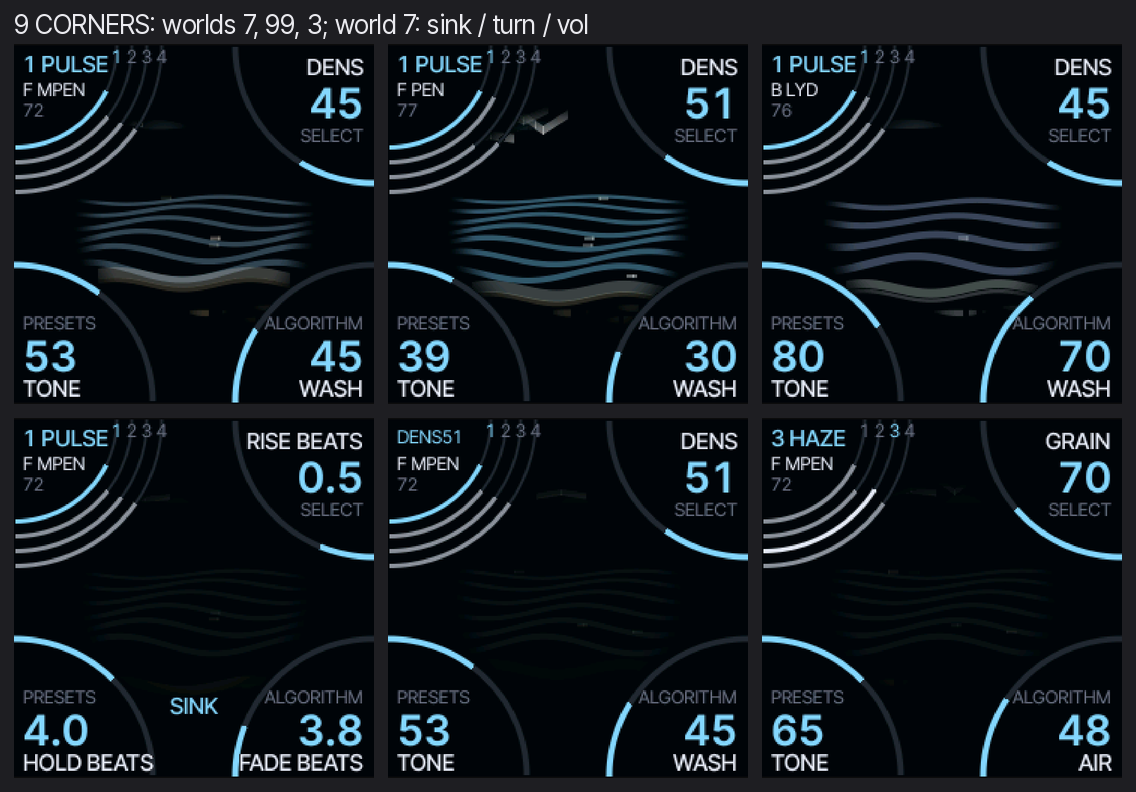
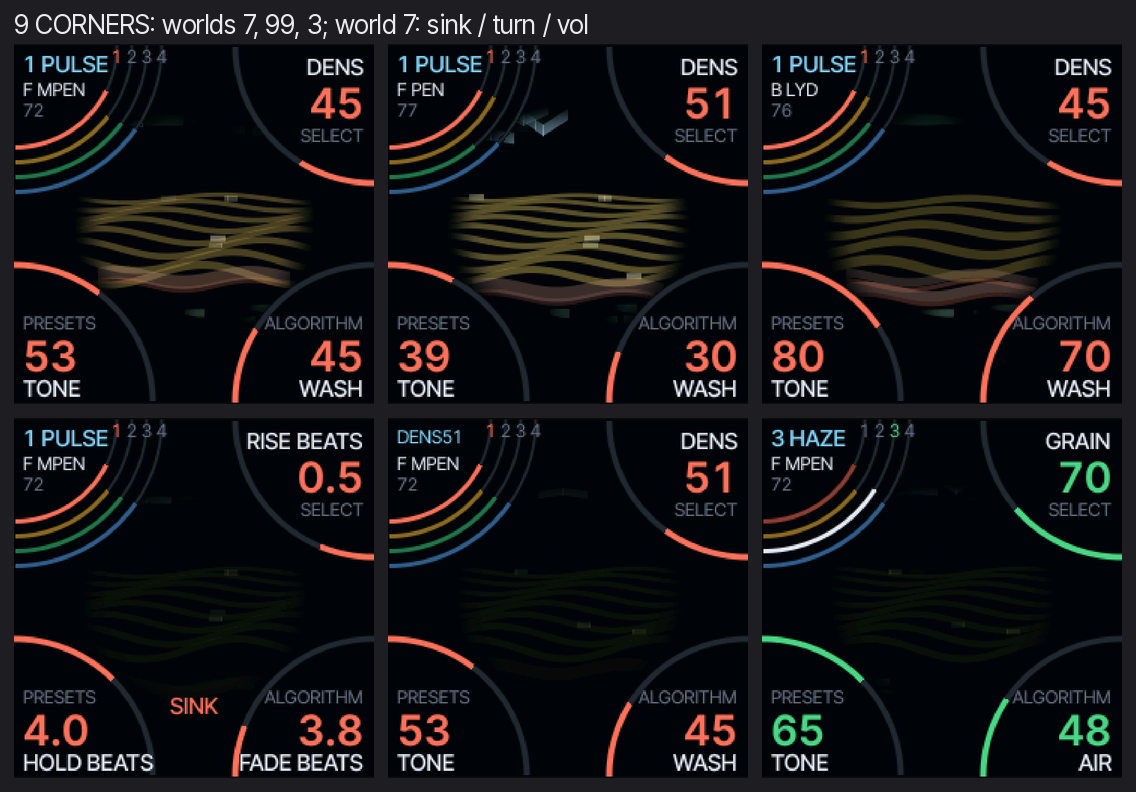
MAKU screen: the sea wears the track colours (pulse coral, floor amber, haze green, voice blue; the corners' arcs and fan too); each macro changes its thing more plainly (wash 1..4 + reach, 2..10 swell lines, bigger sway, longer streaks and trails, wider bird swing); turning a macro lights that part
Claude-Session: https://claude.ai/code/session_01NfBpQWavdnvyYAcF8PW4Gi

diff --git a/firmware/src/ui_maku_scene.c b/firmware/src/ui_maku_scene.c
@@ -10,7 +10,10 @@
  * glows, SWELL heaves, WOBBLE curls, CASCADE sends a flock, SCRAMBLE gusts), DRIFT sends a cloud. No scenery and no window
  * edge: only the things, painted with alpha against what is already there (the canvas is read back), fading out towards the
  * rim (SC_R). Each part's TONE is the clarity of its edges (low: wide and faint, high: thin and bright); the breath's zone dims
- * it towards night and lets the tide rise and fall (the swell higher, the shore moving). Drawn on the whole screen in two bands, state stepped once a frame. */
+ * it towards night and lets the tide rise and fall (the swell higher, the shore moving). Drawn on the whole screen in two bands, state stepped once a frame.
+ * COLOUR: every thing wears its part's track colour (mk_col: PULSE coral, FLOOR amber, HAZE green, VOICE blue), the same as the
+ * volume bar, the number and the macro's value of that track, so a thing and its track are one colour; the season only tints it
+ * (12 %), the minor adds dusk. TOUCH: turning a macro of the focused part lights that part's things for a moment (tch). */
 
 #define SC_X0 36
 #define SC_X1 204
@@ -20,14 +23,8 @@ static int32_t sc_ylo, sc_yhi;              /* the rows of the band being drawn 
 static int32_t sc_gain = 256;               /* 256 = whole; SINK fades everything towards the page */
 static float sc_soft;                       /* 0 crisp .. 1 soft: a part's TONE is the clarity of its edges (soft: wide and faint) */
 
-/* the sea's inks on the dark page, by season (deep: the lines of swell, light: foam and birds, sand: the shore) */
-typedef struct { uint16_t deep, light, sand; } scp_t;
-static const scp_t SCP[4] = {
-    {RGB(96, 164, 200), RGB(226, 240, 248), RGB(226, 204, 170)},
-    {RGB(70, 150, 214), RGB(236, 248, 252), RGB(238, 214, 160)},
-    {RGB(118, 150, 170), RGB(250, 232, 200), RGB(214, 184, 140)},
-    {RGB(130, 156, 200), RGB(244, 248, 255), RGB(226, 228, 236)},
-};
+/* the season's tint on the track colours (spring, summer, autumn, winter) and the neutral light of the events (a cloud) */
+static const uint16_t SC_TINT[4] = {RGB(150, 232, 190), RGB(120, 214, 255), RGB(255, 190, 120), RGB(210, 224, 255)};
 
 static uint32_t sc_rs = 0x2545F491u;
 static uint32_t sc_rnd(void)
@@ -99,7 +96,7 @@ static void sc_rows(int32_t x0, int32_t x1, int32_t y0, int32_t y1, uint16_t c, 
 /* a vertical span [yc - w/2, yc + w/2] at x, anti-aliased */
 static void sc_vspan(int32_t x, float yc, float w, uint16_t c, float a)
 {
-    float w2 = w * (1.0f + 1.2f * sc_soft) + 1.6f * sc_soft, top = yc - w2 * 0.5f, bot = yc + w2 * 0.5f;
+    float w2 = w * (1.0f + 1.8f * sc_soft) + 2.2f * sc_soft, top = yc - w2 * 0.5f, bot = yc + w2 * 0.5f;
     int32_t j, j0 = (int32_t)floorf(top), j1 = (int32_t)floorf(bot);
     a *= 1.0f - 0.4f * sc_soft;
     for (j = j0; j <= j1; j++) {
@@ -169,7 +166,7 @@ static void sc_stroke(float x, float y, float len, float bend, float w, uint16_t
 /* ---- the state: stepped once a frame ---- */
 typedef struct {
     float lev[4], m[4][3], clk, tf, duck, wind, foc[4];
-    float sink, casc, lift, swell, wob, scr, drift, bw, bb;
+    float sink, casc, lift, swell, wob, scr, drift, bw, bb, tch[4], pm[4][3];
     int season, minor;
     uint32_t f;
 } sct_t;
@@ -223,6 +220,17 @@ static void sc_step(uint32_t f)
         sc.foc[i] = i == f ? 1.0f : 0.78f;
         for (j = 0; j < 3u; j++)
             sc.m[i][j] = (float)maku.m[i][j] * (1.0f / 127.0f);
+    }
+    {                                                                 /* TOUCH: a macro of the focused part moved -> its things light up and ease back */
+        for (i = 0; i < 4u; i++) {
+            float mv = 0.0f;
+            uint32_t j;
+            for (j = 0; j < 3u; j++) {
+                mv = fmaxf(mv, fabsf(sc.m[i][j] - sc.pm[i][j]));
+                sc.pm[i][j] = sc.m[i][j];
+            }
+            sc.tch[i] = mv > 0.006f && i == f ? 1.0f : fmaxf(0.0f, sc.tch[i] - dt * 0.9f);
+        }
     }
     sc.duck = sc_cl((float)(4096 - maku.duck) * (1.0f / 4096.0f), 0.0f, 1.0f);
     sc.sink = (float)maku.va[VB_SINK] * (1.0f / 4096.0f);
@@ -279,7 +287,7 @@ static void sc_step(uint32_t f)
             continue;
         l->age += dt;
         l->x += (20.0f + 12.0f * sc.wind) * tf * dt;
-        l->y += sinf(l->age * 2.0f + l->ph) * (3.0f + 10.0f * sc.m[3][0]) * (1.0f + 2.0f * sc.wob) * dt;
+        l->y += sinf(l->age * 2.0f + l->ph) * (1.0f + 26.0f * sc.m[3][0]) * (1.0f + 2.0f * sc.wob) * dt;
         if (l->x > (float)SC_X1 + 10.0f)
             l->on = 0;
     }
@@ -289,11 +297,12 @@ static void sc_step(uint32_t f)
 }
 
 /* ---- the sea: things only ---- */
-static const scp_t *sc_pal(void) { return &SCP[sc.season & 3]; }
+/* the track colour of a part, tinted by the season, dusk for a minor scale; `hi` the same lifted towards white (foam, glints, birds) */
+static uint16_t sc_tcol(uint32_t i) { return sc_dusk(mk_mix(mk_col(i), SC_TINT[sc.season & 3], 12), sc.minor); }
+static uint16_t sc_hi(uint16_t c, int32_t pct) { return mk_mix(c, RGB(255, 255, 255), pct); }
 
-static void sc_verbs(const scp_t *P)                                  /* LIFT: a warm glow behind the things; (SINK is sc_gain, set in mkl_scene) */
+static void sc_verbs(void)                                            /* LIFT: a warm glow behind the things; (SINK is sc_gain, set in mkl_scene) */
 {
-    (void)P;
     if (sc.lift > 0.01f)
         sc_ellfill(120.0f, 120.0f, 60.0f, 60.0f, RGB(255, 226, 150), sc.lift * 40.0f);
 }
@@ -306,77 +315,84 @@ static void sc_cloud(float y, float a, uint16_t c)                    /* DRIFT: 
     sc_ellfill(x - 13.0f, y + 1.0f, 14.0f, 5.0f, c, a);
 }
 
-/* SEA: lines of swell, waves up the shore, birds, streaks of wind and sand ------------------------------------------ */
+/* SEA: lines of swell, waves up the shore, birds, streaks of wind and sand. Each thing is its part's colour; each macro of
+ * a part is one plain change of its things: PULSE  TONE foam edge, WASH 1..4 lines and how far up the shore
+ *   FLOOR  OPEN 2..10 lines, SWAY low ripple .. high rollers, TONE dark lines .. bright lines + glints
+ *   HAZE   GRAIN few whole streaks .. many broken ones, AIR short and slow .. long and fast, TONE dim .. bright
+ *   VOICE  LOOSE level flight .. wide swings, TRAIL no streak .. a long one, TONE edge ------------------------------- */
 static void sc_sea(void)
 {
-    const scp_t *P = sc_pal();
     int32_t hz = 100, sh = 164, i, k;
     float t = sc.clk, dk = 1.0f - 0.55f * sc.duck, sw = (1.0f + 1.4f * sc.swell) * (1.0f + 0.9f * sc.bw * sc.bb), tide = 7.0f * sc.bw * (sc.bb - 0.5f);   /* the breath: the tide rises and falls (swell higher, the shore moves) */
-    uint16_t ink = sc_dusk(P->deep, sc.minor), pale = sc_dusk(P->light, sc.minor), sand = sc_dusk(P->sand, sc.minor), wc = sc_mixf(ink, pale, 0.1f + 0.35f * sc.m[1][1]);
+    uint16_t c0 = sc_tcol(0), c1 = sc_tcol(1), c2 = sc_tcol(2), c3 = sc_tcol(3);
+    float tb0 = 1.0f + 0.7f * sc.tch[0], tb1 = 1.0f + 0.7f * sc.tch[1], tb2 = 1.0f + 0.7f * sc.tch[2], tb3 = 1.0f + 0.7f * sc.tch[3];
     if (sc.drift > 0.5f)
-        sc_cloud(66.0f, 60.0f, pale);
+        sc_cloud(66.0f, 60.0f, RGB(214, 224, 236));
     {
-        int32_t nb = 3 + (int32_t)(sc.m[1][0] * 5.0f);
+        int32_t nb = 2 + (int32_t)(sc.m[1][0] * 8.0f + 0.5f);
+        uint16_t wc = sc_mixf(sc_dim(c1, 0.5f), sc_hi(c1, 35), 0.05f + 0.95f * sc.m[1][1]);
         sc_soft = 1.0f - sc.m[1][1];                                  /* every part's TONE: the clarity of its edges */
         for (i = 0; i < nb; i++) {                                    /* the swell (FLOOR) */
             float tt = (float)(i + 1) / (float)(nb + 1), y = (float)hz + (float)(sh - hz) * powf(tt, 1.4f) - tide * tt;
-            sc_wave(y, (0.8f + 6.0f * sc.m[1][2]) * (0.4f + tt) * sw, 0.05f, -t * (0.6f + 1.0f * tt) + (float)i * 1.3f, wc, (90.0f + 150.0f * sc.lev[1]) * dk * sc.foc[1], 0.9f + 1.6f * tt, SC_X0, SC_X1);
+            sc_wave(y, (0.4f + 9.5f * sc.m[1][2] * sc.m[1][2] + 1.5f * sc.m[1][2]) * (0.4f + tt) * sw, 0.075f - 0.04f * sc.m[1][2], -t * (0.6f + 1.0f * tt) + (float)i * 1.3f, wc, (90.0f + 150.0f * sc.lev[1]) * dk * sc.foc[1] * tb1, 0.9f + 1.6f * tt, SC_X0, SC_X1);
         }
-        for (i = 0; i < (int32_t)(sc.lev[1] * (3.0f + 30.0f * sc.m[1][1] * sc.m[1][1])); i++) {
+        for (i = 0; i < (int32_t)(sc.lev[1] * (2.0f + 40.0f * sc.m[1][1] * sc.m[1][1])); i++) {
             float x = (float)SC_X0 + sc_hf((uint32_t)i, 21u) * 168.0f, y = (float)hz + powf(sc_hf((uint32_t)i, 22u), 1.5f) * (float)(sh - hz - 6), tw = sinf(t * (0.8f + sc_hf((uint32_t)i, 23u)) + (float)i * 2.7f);
             if (tw > 0.2f)
-                sc_line(x, y, x + 6.0f, y, 1.0f, pale, (60.0f + 120.0f * sc.m[1][1]) * tw * dk);
+                sc_line(x, y, x + 5.0f + 6.0f * sc.m[1][1], y, 1.0f + sc.m[1][1], sc_hi(c1, 70), (60.0f + 150.0f * sc.m[1][1]) * tw * dk * tb1);
         }
     }
     sc_soft = 1.0f - sc.m[0][1];
-    for (i = 0; i < 8; i++) {                                         /* the waves (PULSE): up the shore and back; WASH how many lines follow; a line of sand where it reached */
+    for (i = 0; i < 8; i++) {                                         /* the waves (PULSE): up the shore and back; WASH how many lines follow and how far it climbs; a line of sand where it reached */
         const sce_t *e = &sc_ev[i];
-        float age, p;
+        float age, p, reach = 30.0f + 18.0f * sc.m[0][2];
         if (!e->on)
             continue;
         age = (float)(sc_ms - e->t0) * 0.001f;
         p = age / 2.6f;
         if (p >= 1.0f)
             continue;
-        for (k = 0; k < 1 + (int32_t)(sc.m[0][2] * 2.0f); k++) {
-            float pp = p - (float)k * 0.1f * (1.0f + sc.m[0][2]), y;
+        for (k = 0; k < 1 + (int32_t)(sc.m[0][2] * 3.99f); k++) {
+            float pp = p - (float)k * 0.09f, y;
             if (pp <= 0.0f || pp >= 1.0f)
                 continue;
-            y = (float)sh - 20.0f + tide + 36.0f * (pp < 0.45f ? 1.0f - (1.0f - pp / 0.45f) * (1.0f - pp / 0.45f) : 1.0f - 0.45f * (pp - 0.45f) / 0.55f) + (float)k * 2.0f;
-            sc_wave(y + 5.0f, (1.5f + 2.5f * sc.lev[0]) * 1.0f, 0.07f, (float)i * 2.0f + (float)k, sand, 110.0f * (1.0f - pp) * sc.lev[0], 1.4f, 56, 184);
-            sc_wave(y, (1.5f + 2.5f * sc.lev[0]) * 1.0f, 0.07f, (float)i * 2.0f + (float)k, pale, (float)e->a * (0.6f + 0.55f * sc.lev[0]) * (1.0f - pp * 0.6f) / (1.0f + 0.7f * (float)k) * sc.foc[0], (2.4f + 2.0f * sc.lev[0]) * (1.0f - (float)k * 0.25f), 56, 184);
+            y = (float)sh - 20.0f + tide + reach * (pp < 0.45f ? 1.0f - (1.0f - pp / 0.45f) * (1.0f - pp / 0.45f) : 1.0f - 0.45f * (pp - 0.45f) / 0.55f) + (float)k * 3.0f;
+            sc_wave(y + 5.0f, (1.5f + 2.5f * sc.lev[0]) * 1.0f, 0.07f, (float)i * 2.0f + (float)k, c0, 120.0f * (1.0f - pp) * sc.lev[0] * tb0, 1.4f, 56, 184);
+            sc_wave(y, (1.5f + 2.5f * sc.lev[0]) * 1.0f, 0.07f, (float)i * 2.0f + (float)k, sc_hi(c0, 40), (float)e->a * (0.6f + 0.55f * sc.lev[0]) * (1.0f - pp * 0.6f) / (1.0f + 0.6f * (float)k) * sc.foc[0] * tb0, (2.4f + 2.0f * sc.lev[0]) * (1.0f - (float)k * 0.2f), 56, 184);
         }
     }
     sc_soft = 1.0f - sc.m[2][1];
     {                                                                 /* the wind (HAZE): cloud streaks, and sand along the shore */
-        int32_t nw = (int32_t)(sc.wind * (2.0f + 4.0f * (0.3f + sc.m[2][0])) + 0.5f);
-        for (i = 0; i < nw && i < 7; i++) {
-            float len = 22.0f + 60.0f * sc.m[2][2], sp = 8.0f + 20.0f * sc.wind, y = 46.0f + (float)i * 7.0f + (1.0f - sc.m[2][2]) * 8.0f * sc_hf((uint32_t)i, 31u);
+        int32_t nw = (int32_t)(sc.wind * (2.0f + 7.0f * (0.2f + sc.m[2][0])) + 0.5f);
+        uint16_t sk = sc_mixf(sc_dim(c2, 0.55f), sc_hi(c2, 35), 0.1f + 0.9f * sc.m[2][1]);
+        for (i = 0; i < nw && i < 9; i++) {
+            float len = 16.0f + 90.0f * sc.m[2][2], sp = 6.0f + 12.0f * sc.m[2][2] + 20.0f * sc.wind, y = 44.0f + (float)i * 6.0f + (1.0f - sc.m[2][2]) * 8.0f * sc_hf((uint32_t)i, 31u);
             float x = (float)SC_X0 - len + fmodf(t * sp + sc_hf((uint32_t)i, 32u) * 300.0f, 168.0f + len);
             if (sc.scr > 0.05f)
                 y += sinf(t * 9.0f + (float)i * 3.0f) * 3.0f * sc.scr;
-            sc_stroke(x, y, len, (sc_hf((uint32_t)i, 33u) - 0.5f) * (6.0f + 14.0f * sc.wob), 2.0f + 2.5f * sc.wind, sc_mixf(ink, pale, 0.2f + 0.5f * sc.m[2][1]), 210.0f * sc.wind * dk * sc.foc[2], 0.4f * sc.m[2][0] + 0.3f * sc.scr, (uint32_t)i);
+            sc_stroke(x, y, len, (sc_hf((uint32_t)i, 33u) - 0.5f) * (6.0f + 14.0f * sc.wob), 2.0f + 2.5f * sc.wind, sk, 210.0f * sc.wind * dk * sc.foc[2] * tb2, 0.7f * sc.m[2][0] + 0.3f * sc.scr, (uint32_t)i);
         }
-        for (i = 0; i < nw * 2 && i < 12; i++) {
-            float len = 14.0f + 40.0f * sc.m[2][2], sp = 22.0f + 50.0f * sc.wind, y = (float)sh + 6.0f + sc_hf((uint32_t)i, 41u) * 30.0f;
+        for (i = 0; i < nw * 2 && i < 16; i++) {
+            float len = 10.0f + 54.0f * sc.m[2][2], sp = 22.0f + 50.0f * sc.wind, y = (float)sh + 6.0f + sc_hf((uint32_t)i, 41u) * 30.0f;
             float x = (float)SC_X0 - len + fmodf(t * sp + sc_hf((uint32_t)i, 42u) * 300.0f, 168.0f + len);
-            sc_stroke(x, y, len, (sc_hf((uint32_t)i, 43u) - 0.5f) * 3.0f, 1.2f + 1.2f * sc.wind, sand, 230.0f * sc.wind * dk * sc.foc[2], 0.55f * sc.m[2][0] + 0.2f * sc.scr, (uint32_t)i + 77u);
+            sc_stroke(x, y, len, (sc_hf((uint32_t)i, 43u) - 0.5f) * 3.0f, 1.2f + 1.2f * sc.wind, sc_hi(c2, 55), 230.0f * sc.wind * dk * sc.foc[2] * tb2, 0.75f * sc.m[2][0] + 0.2f * sc.scr, (uint32_t)i + 77u);
         }
     }
     sc_soft = 1.0f - sc.m[3][1];
-    for (i = 0; i < 14; i++) {                                        /* the birds (VOICE): one a note; the pitch its height; the wind lifts them; a streak behind */
+    for (i = 0; i < 14; i++) {                                        /* the birds (VOICE): one a note; the pitch its height; the wind lifts them; TRAIL a streak behind */
         const scl_t *l = &sc_lf[i];
         float flap, sz = 8.0f + 7.0f * sc.lev[3], a = 255.0f * sc.foc[3] * (sc.lev[3] > 0.02f ? 1.0f : 0.0f);
-        uint16_t c = sc.season == 2 ? RGB(255, 244, 230) : RGB(250, 250, 252);
+        uint16_t c = sc_hi(c3, 55);
         if (!l->on)
             continue;
         flap = sinf(l->age * 6.0f + l->ph) * sz * 0.55f * (1.0f + 0.5f * sc.wob);
-        sc_line(l->x - 6.0f - 46.0f * sc.m[3][2], l->y + 2.0f, l->x - sz, l->y, 1.0f, pale, 70.0f * sc.lev[3] * sc.foc[3]);
-        sc_line(l->x - sz * 1.3f, l->y - sz * 0.2f + flap, l->x, l->y + sz * 0.15f, 2.4f, c, a);
-        sc_line(l->x, l->y + sz * 0.15f, l->x + sz * 1.3f, l->y - sz * 0.2f + flap, 2.4f, c, a);
+        if (sc.m[3][2] > 0.03f)
+            sc_line(l->x - sz - 4.0f - 84.0f * sc.m[3][2], l->y + 2.0f, l->x - sz, l->y, 1.2f + 1.2f * sc.m[3][2], c3, (60.0f + 70.0f * sc.m[3][2]) * sc.lev[3] * sc.foc[3] * tb3);
+        sc_line(l->x - sz * 1.3f, l->y - sz * 0.2f + flap, l->x, l->y + sz * 0.15f, 2.4f * (1.0f + 0.25f * sc.tch[3]), c, a);
+        sc_line(l->x, l->y + sz * 0.15f, l->x + sz * 1.3f, l->y - sz * 0.2f + flap, 2.4f * (1.0f + 0.25f * sc.tch[3]), c, a);
     }
     sc_soft = 0.0f;
-    sc_verbs(P);
+    sc_verbs();
 }
 
 static void mkl_scene(uint32_t f)

diff --git a/firmware/src/ui_maku_style3.c b/firmware/src/ui_maku_style3.c
@@ -113,7 +113,7 @@ static void mkl_corners_scene(void)
         float a0 = A0[j], a1 = a0 + 1.5707963f * (float)q->val / 127.0f;
         int32_t right = CX[j] > 0, top = CY[j] == 0, xa = right ? 233 : 6, al = right ? 2 : 0;
         const aafont_t *vf = mkl_fit(&AF_L, &AF_M, q->b, 70);
-        uint16_t cc = q->gray ? mk_mix(OB_ACC, OB_BG, q->gray) : OB_ACC;
+        uint16_t tc = mk_col(f), cc = q->gray ? mk_mix(tc, OB_BG, q->gray) : tc;      /* the focused track's colour, as in the shipped screen */
         mkl_arc(CX[j], CY[j], 92, 4.0f, A0[j], A0[j] + 1.5707963f, OB_LINE, OB_BG);
         if (q->val > 0)
             mkl_arc(CX[j], CY[j], 92, 4.0f, a0, a1, cc, OB_BG);
@@ -127,15 +127,15 @@ static void mkl_corners_scene(void)
             mkl_text(xa, 224, &AF_M, q->name, OB_TEXT, al);
         }
         if (q->title[0])
-            mkl_text(120, 186, &AF_M, q->title, OB_ACC, 1);
+            mkl_text(120, 186, &AF_M, q->title, tc, 1);
     }
-    for (i = 0; i < 4u; i++) {                                        /* MASTER's corner: the four volumes, a fan */
+    for (i = 0; i < 4u; i++) {                                        /* MASTER's corner: the four volumes, a fan, each its track's colour */
         int32_t r = 68 + (int32_t)i * 10, lvl = trk[i].p[P_LEVEL];
-        uint16_t c = i == f ? (ui.hot_t && ui.hot_col == i ? OB_TEXT : OB_ACC) : mk_mix(OB_LINE, OB_TEXT, 55);
+        uint16_t c = i == f ? (ui.hot_t && ui.hot_col == i ? OB_TEXT : mk_col(i)) : mk_mix(mk_col(i), OB_BG, 45);
         mkl_arc(0, 0, r, 2.0f, 0.0f, 1.5707963f, OB_LINE, OB_BG);
         if (lvl > 0)
             mkl_arc(0, 0, r, 3.0f, 1.5707963f - 1.5707963f * (float)lvl / 127.0f, 1.5707963f, c, OB_BG);
-        cv_text(r - 3, 0, &AF_S, MAKU_NUM[i], i == f ? OB_ACC : OB_DIM);
+        cv_text(r - 3, 0, &AF_S, MAKU_NUM[i], i == f ? mk_col(i) : OB_DIM);
     }
     mkl_title(t, f);
     if (ui.msg_t)

diff --git a/docs/SCENE_PLAN.md b/docs/SCENE_PLAN.md
@@ -9,7 +9,9 @@
 - **景色は描かない。「もの」だけを描く**（2026-10-14）。空・水面・地面の塗りや窓の縁はやめ、波の線、泡、鳥、風の筋、砂だけを置く。
 - **黒い面に描く**（2026-10-14）。いったん白い面（四隅の文字は濃い墨）も試したが、ほかの案と同じ黒い面に戻した。四隅の文字と弧の色も、ほかの案と同じ（`OB_*`）。
 - **窓の縁は描かない**：中心から 0.7 R までははっきり、そこから R（84 px）に向かって消える。
-- **季節は調（ROOT）から**：C〜D＝春、D#〜F＝夏、F#〜G#＝秋、A〜B＝冬（3音ずつ）。季節ごとに3色（深い色＝うねり、明るい色＝泡と鳥、砂の色）。マイナー系の音階（スケール 2, 3, 6, 8）は夕方の色を足す。
+- **色はトラック色**（2026-10-15）：各パートの「もの」は、そのトラックの色（`mk_col`：脈＝珊瑚、床＝琥珀、霞＝緑、声＝青）で描く。音量バー・番号・つまみの値と同じ色なので、絵とトラックが1色でつながる。CORNERS の弧・値・MASTER の扇も、フォーカス中のトラック色（ほかのトラックの扇は自分の色を暗く）。
+- **季節は色味だけ**：調（ROOT）の C〜D＝春、D#〜F＝夏、F#〜G#＝秋、A〜B＝冬（3音ずつ）が、トラック色に 12 % の色味を足す。マイナー系の音階（スケール 2, 3, 6, 8）は夕方の色を足す。
+- **つまみを回すと、そのパートの「もの」が一瞬明るくなる**（`tch`：フォーカス中のパートのマクロが動くと 1 に戻り、約 1 秒で消える。明るさ＋70 %）。
 - **実装**：`firmware/src/ui_maku_scene.c`（`ui_maku_style3.c` が取り込む。`-DMK_STYLES` のみ。出荷ファームは不変）。描いてある画素に半透明で重ねる（画面を読み戻す）。画素ごとの場は使わない。
 - モック（`tools/mk_scene_mock.py`、`docs/shots/mk_scene_seasons.png`、`mk_scene_states.png`）は、3題材を比べていたときの静止画。いまの絵とは違う（景色あり）。
 
@@ -41,10 +43,10 @@
 
 | パート | 自然物 | SELECT | PRESETS（TONE） | ALGORITHM |
 |---|---|---|---|---|
-| 1 脈（キック） | **寄せる波**：拍ごとに浜を上って戻る（2.6 秒）。グリッドの拍は濃く、ゴーストは薄い | DENS：絵では直接使わない（拍の数がそのまま波の数になる） | **TONE** = 泡の縁の明瞭さ（低い：太くにじむ、高い：細くくっきり） | **WASH** = 後ろに続く泡の線の本数（1〜3） |
-| 2 床（ドローン） | **うねり**：横に流れる波の線 | **OPEN** = 線の本数（3〜8） | **TONE** = 線の色が深い色から明るい色へ、きらめきの短い線が増える。縁の明瞭さも | **SWAY** = うねりの高さ |
-| 3 霞（シマー） | **風**：上の雲の筋と、浜を走る砂 | **GRAIN** = 筋の途切れ方と本数 | **TONE** = 筋の色が明るくなる。縁の明瞭さも | **AIR** = 筋の長さと、風の強さ |
-| 4 声（アルペジオ） | **鳥**：1音で1羽、左から右へ渡る | **LOOSE** = 上下に揺れる幅 | **TONE** = 鳥の縁の明瞭さ | **TRAIL** = 鳥の後ろに引く線の長さ |
+| 1 脈（キック）珊瑚 | **寄せる波**：拍ごとに浜を上って戻る（2.6 秒）。グリッドの拍は濃く、ゴーストは薄い | DENS：絵では直接使わない（拍の数がそのまま波の数になる） | **TONE** = 泡の縁の明瞭さ（低い：太くにじむ、高い：細くくっきり） | **WASH** = 後ろに続く泡の線の本数（1〜4）と、浜を上る高さ |
+| 2 床（ドローン）琥珀 | **うねり**：横に流れる波の線 | **OPEN** = 線の本数（2〜10） | **TONE** = 線が暗い色から明るい色へ、きらめきの短い線が増える（最大 40）。縁の明瞭さも | **SWAY** = うねりの高さ（細かいさざ波〜大きな波。波長も変わる） |
+| 3 霞（シマー）緑 | **風**：上の雲の筋と、浜を走る砂 | **GRAIN** = 筋の途切れ方（最大 70 %）と本数（最大 9） | **TONE** = 筋が暗い色から明るい色へ。縁の明瞭さも | **AIR** = 筋の長さ（16〜106 px）と、風の速さ |
+| 4 声（アルペジオ）青 | **鳥**：1音で1羽、左から右へ渡る | **LOOSE** = 上下に揺れる幅（ほぼ水平〜大きく波打つ） | **TONE** = 鳥の縁の明瞭さ | **TRAIL** = 鳥の後ろに引く線の長さ（なし〜約 100 px）と濃さ |
 
 声の1音 = 鳥1羽。**音の高さ = 飛ぶ高さ**（MIDI 36〜84 を y 90〜46 に）。最大 14 羽。脈の波は同時に最大 8。
 
